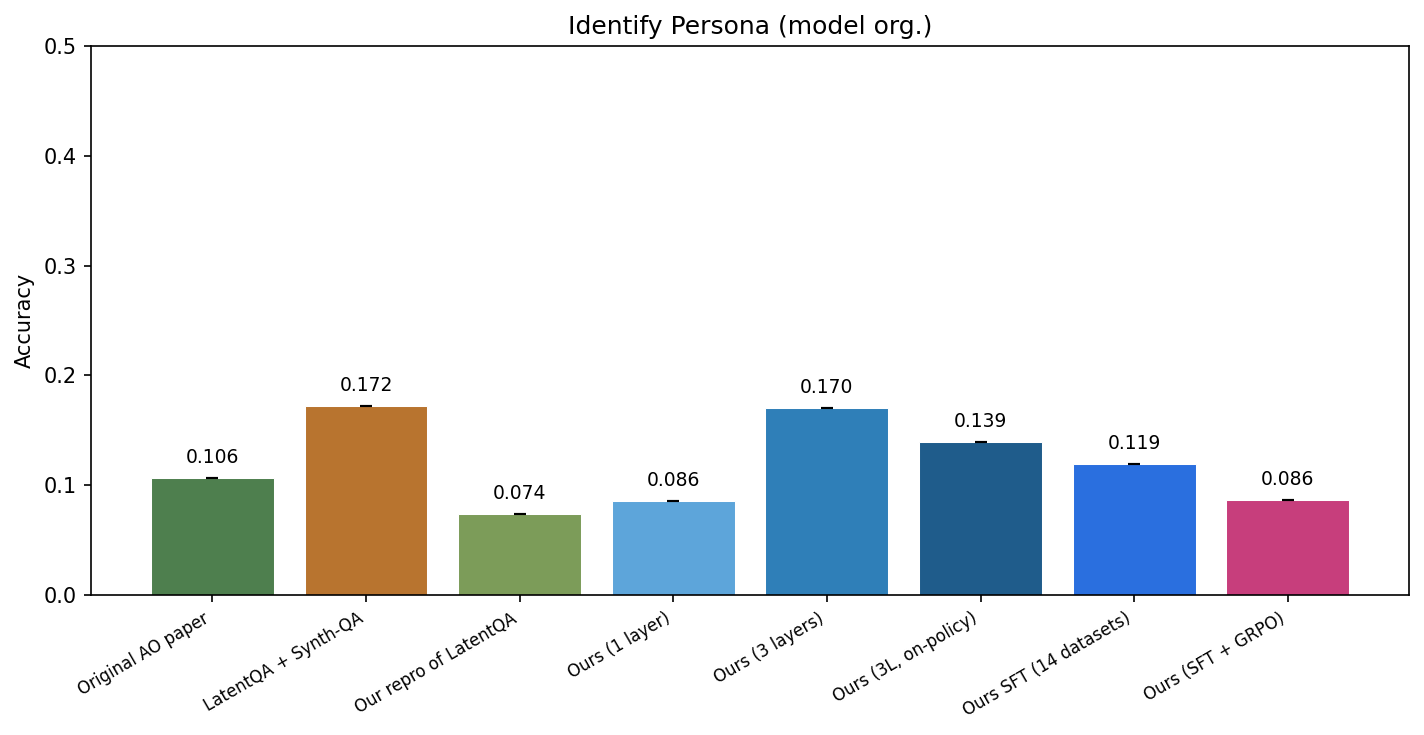
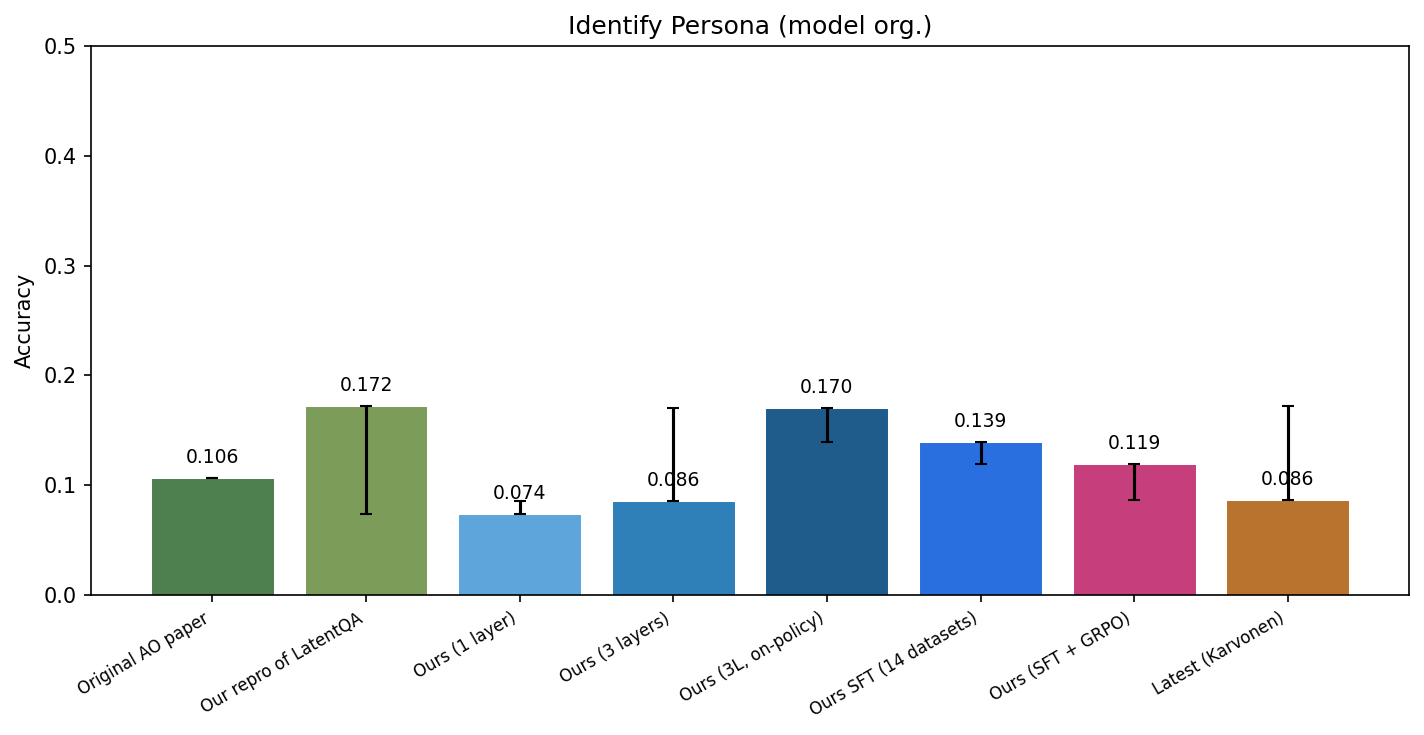
AObench: rename LatentQA+Synth-QA → Latest (Karvonen), move to end of bar order

diff --git a/AObench/utils/report.py b/AObench/utils/report.py
@@ -337,7 +337,7 @@ DISPLAY_NAMES: dict[str, str] = {
     "checkpoints_latentqa_cls_on_policy_Qwen3-8B": "Adam's on-policy",
     "latentqa_cls_on_policy_Qwen3-8B": "Adam's on-policy",
     "adam-reupload-qwen3-8b-latentqa-cls-past-lens": "Original AO paper",
-    "adam-reupload-qwen3-8b-full-mix-synthetic-qa-v3-replace-lqa": "LatentQA + Synth-QA",
+    "adam-reupload-qwen3-8b-full-mix-synthetic-qa-v3-replace-lqa": "Latest (Karvonen)",
     "cot-oracle-paper-ablation-adam-recipe-1layer": "Our repro of LatentQA",
     "cot-oracle-paper-ablation-ours-1layer": "Ours (1 layer)",
     "cot-oracle-paper-ablation-ours-3layers": "Ours (3 layers)",
@@ -352,7 +352,7 @@ DISPLAY_NAMES: dict[str, str] = {
 
 DISPLAY_COLORS: dict[str, str] = {
     "Original AO paper": "#4E7F4E",
-    "LatentQA + Synth-QA": "#B8742F",
+    "Latest (Karvonen)": "#B8742F",
     "Our repro of LatentQA": "#7C9C59",
     "Ours (1 layer)": "#5DA5DA",
     "Ours (3 layers)": "#2F7FB8",
@@ -362,13 +362,13 @@ DISPLAY_COLORS: dict[str, str] = {
 }
 DISPLAY_ORDER = [
     "Original AO paper",
-    "LatentQA + Synth-QA",
     "Our repro of LatentQA",
     "Ours (1 layer)",
     "Ours (3 layers)",
     "Ours (3L, on-policy)",
     "Ours SFT (14 datasets)",
     "Ours (SFT + GRPO)",
+    "Latest (Karvonen)",
 ]
 
 EVAL_DISPLAY_NAMES: dict[str, str] = {
